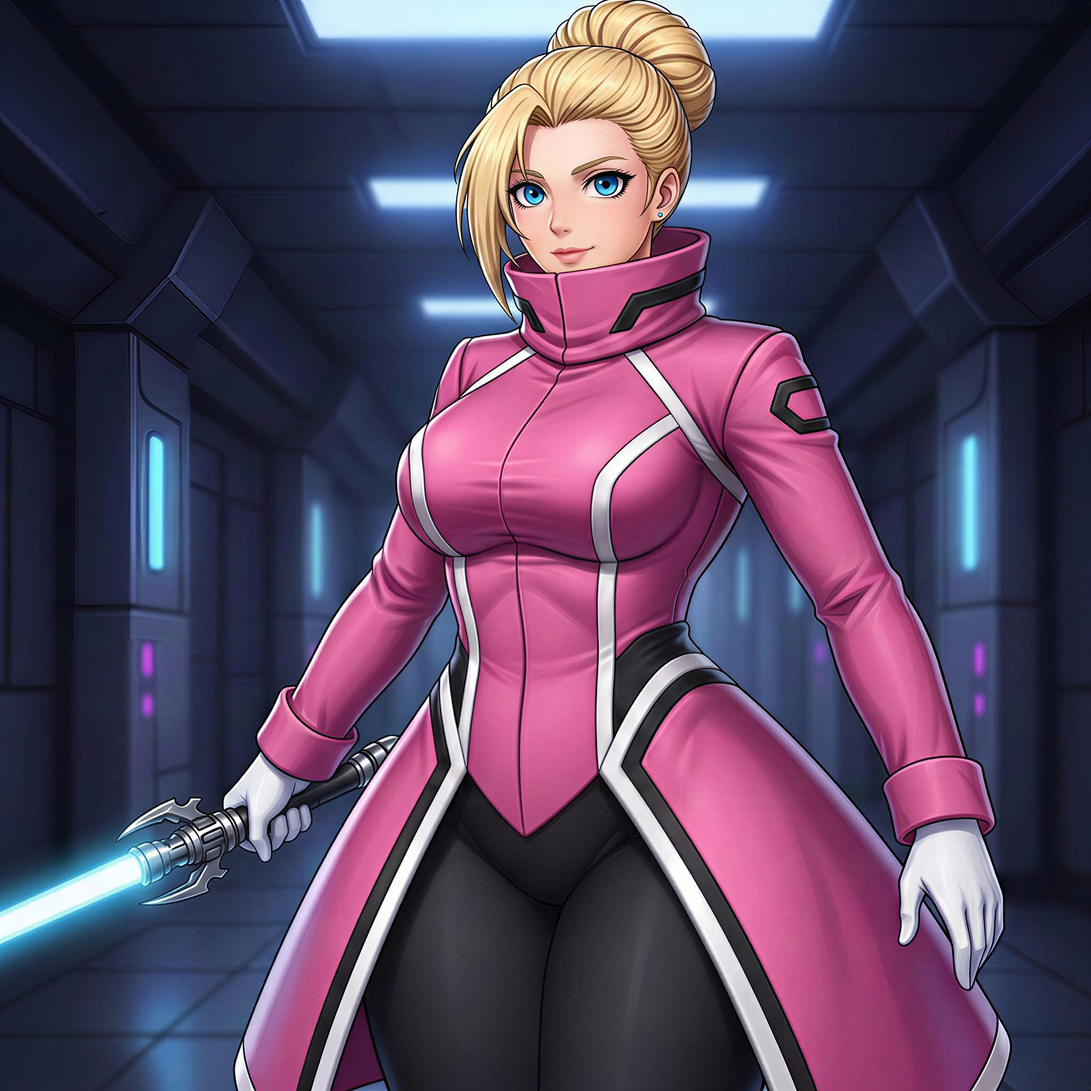
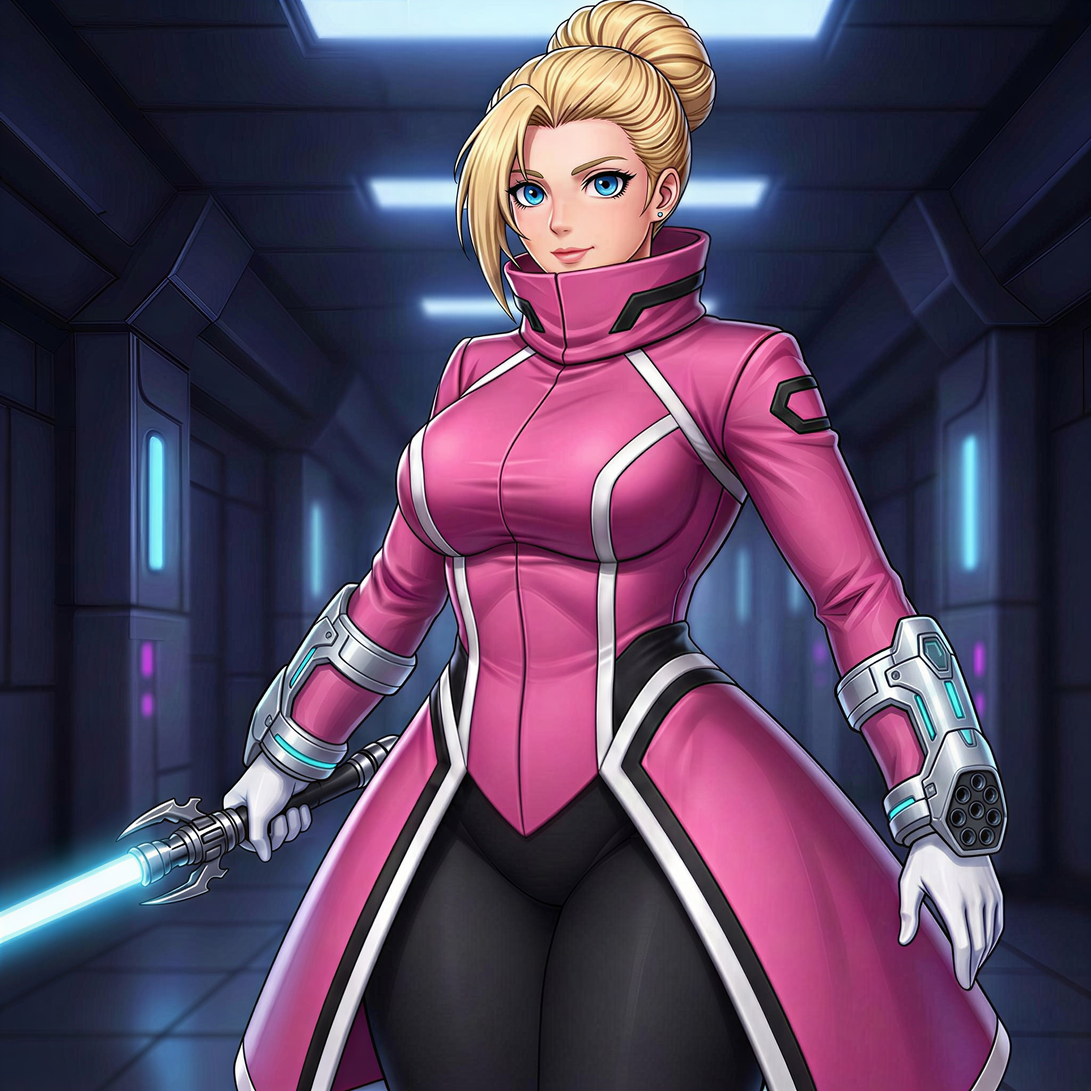
Atualização

diff --git a/html/sentinel-exo-force.html b/html/sentinel-exo-force.html
@@ -48,7 +48,7 @@
         <img src="../imagens/astridfrostlund.jpeg" alt="Astrid Frostlund" width="600" height="600">
         <p><strong><em><span style="color: #e8b923;">Idade:</span></em></strong> 34 anos</p>
         <br>
-        <p><strong><em><span style="color: #e8b923;">História:</span></em></strong> Astrid Frostlund nasceu em uma vila isolada na Noruega, completamente fora do radar do mundo moderno. Ainda criança, sua vida mudou quando um dos moradores da vila acabou se transformando em um monstro, desencadeando um ataque devastador que espalhou caos e destruição pela região. A situação só não se tornou ainda pior graças à intervenção de Auron Valcrest e dos PX-Troopers, que contiveram a ameaça e impediram que a tragédia se agravasse. Aquele dia marcou Astrid para sempre, transformando admiração em obsessão. Ela cresceu idolatrando aquelas forças que salvaram sua terra natal e, ao atingir a maioridade, mudou-se para os EUA em busca da Sentinel Exo-Force, passando com excelência em todos os testes para se tornar uma PX-Trooper. Seu desempenho excepcional a fez evoluir rapidamente dentro da organização, destacando-se em missões de alto risco até conquistar a confiança total de Auron e assumir o posto de seu braço direito. Atualmente, Astrid atua na linha de frente das operações mais críticas, empunhando como arma principal um sabre de luz que ela mesma construiu.</p>
+        <p><strong><em><span style="color: #e8b923;">História:</span></em></strong> Astrid Frostlund nasceu em uma vila isolada na Noruega, completamente fora do radar do mundo moderno. Ainda criança, sua vida mudou quando um dos moradores da vila acabou se transformando em um monstro, desencadeando um ataque devastador que espalhou caos e destruição pela região. A situação só não se tornou ainda pior graças à intervenção de Auron Valcrest e dos PX-Troopers, que contiveram a ameaça e impediram que a tragédia se agravasse. Aquele dia marcou Astrid para sempre, transformando admiração em obsessão. Ela cresceu idolatrando aquelas forças que salvaram sua terra natal e, ao atingir a maioridade, mudou-se para os EUA em busca da Sentinel Exo-Force, passando com excelência em todos os testes para se tornar uma PX-Trooper. Seu desempenho excepcional a fez evoluir rapidamente dentro da organização, destacando-se em missões de alto risco até conquistar a confiança total de Auron e assumir o posto de seu braço direito. Atualmente, Astrid atua na linha de frente das operações mais críticas, empunhando como arma principal um sabre de luz que ela mesma construiu e utilizando braceletes tecnológicos avançados em combate.</p>
     </div>    
 
     <div class="fundo-preto">
